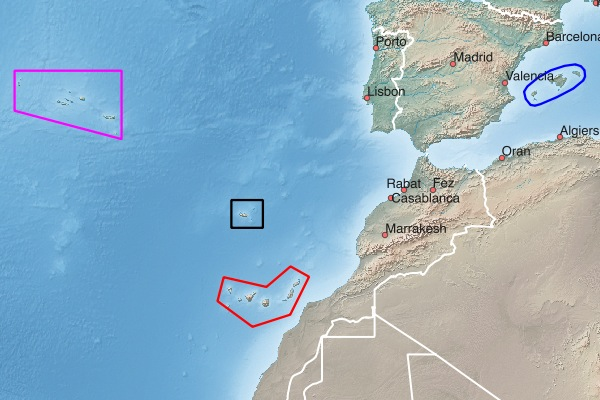
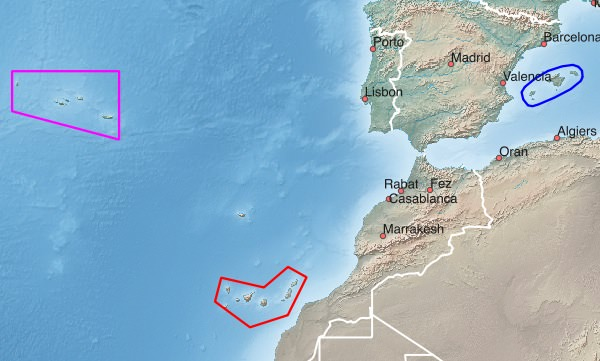
Android: Madeira ergänzt (reverted from commit 3f6e33d83fa2bf9889ab5e43a9afbc44942fff44)

diff --git a/android/en/sonstigelaender.html b/android/en/sonstigelaender.html
@@ -52,7 +52,6 @@
             <tr>
                <td style="text-align: center;"><a href="#BALEARICS-AZORES-CANARYISLANDS">Balearics</a></td>
                <td style="text-align: center;"><a href="#BALEARICS-AZORES-CANARYISLANDS">Azores</a></td>
-               <td style="text-align: center;"><a href="#BALEARICS-AZORES-CANARYISLANDS">Madeira</a></td>
             </tr>
             <tr>
                <td style="text-align: center;"><a href="#BALEARICS-AZORES-CANARYISLANDS">Canary Islands</a></td>
@@ -69,7 +68,7 @@
          <li>click on the OruxMaps Icon in the <strong>Android</strong> browser: the map will be downloaded into OruxMaps</li>
       </ul>
 
-      <h3><a name="BALEARICS-AZORES-CANARYISLANDS">Balearics, Azores, Madeira, Canary Islands:</a></h3>
+      <h3><a name="BALEARICS-AZORES-CANARYISLANDS">Balearics, Azores, Canary Islands:</a></h3>
       <p><img alt="" src="../images/balearics-azores-canaryislands.jpg" style="border-width: 1px; border-style: solid;" /></p>
 
       <table cellpadding="1" cellspacing="1" width="602">
@@ -96,20 +95,6 @@
                <td style="text-align: left;"><a href="http://download.freizeitkarte-osm.de/android/latest/freizeitkarte_azores.map.zip"><img alt="" src="../images/Devices-computer-laptop-icon.png" /></a></td>
                <td style="text-align: left;"><a href="locus-actions://http/download.freizeitkarte-osm.de/android/latest/locus_install_map_freizeitkarte_azores.xml"><img alt="" src="../images/web_logo_200x911.png" /></a></td>
                <td style="text-align: left;"><a href="orux-map://download.freizeitkarte-osm.de/android/latest/freizeitkarte_azores.map.zip"><img alt="" src="../images/oruxmap_icon_medium.png" /></a></td>
-            </tr>
-         </tbody>
-      </table>
-
-      <table cellpadding="1" cellspacing="1" width="602">
-         <tbody>
-            <tr>
-               <td style="width:25%; text-align: left; color:black; font-weight:bold;">Madeira<br />
-               <br />
-               MADEIRA<br />
-               2 MB</td>
-               <td style="text-align: left;"><a href="http://download.freizeitkarte-osm.de/android/latest/freizeitkarte_madeira.map.zip"><img alt="" src="../images/Devices-computer-laptop-icon.png" /></a></td>
-               <td style="text-align: left;"><a href="locus-actions://http/download.freizeitkarte-osm.de/android/latest/locus_install_map_freizeitkarte_madeira.xml"><img alt="" src="../images/web_logo_200x911.png" /></a></td>
-               <td style="text-align: left;"><a href="orux-map://download.freizeitkarte-osm.de/android/latest/freizeitkarte_madeira.map.zip"><img alt="" src="../images/oruxmap_icon_medium.png" /></a></td>
             </tr>
          </tbody>
       </table>

diff --git a/android/de/sonstigelaender.html b/android/de/sonstigelaender.html
@@ -52,7 +52,6 @@
             <tr>
                <td style="text-align: center;"><a href="#BALEARICS-AZORES-CANARYISLANDS">Balearen</a></td>
                <td style="text-align: center;"><a href="#BALEARICS-AZORES-CANARYISLANDS">Azoren</a></td>
-               <td style="text-align: center;"><a href="#BALEARICS-AZORES-CANARYISLANDS">Madeira</a></td>
             </tr>
             <tr>
                <td style="text-align: center;"><a href="#BALEARICS-AZORES-CANARYISLANDS">Kanarische Inseln</a></td>
@@ -69,7 +68,7 @@
          <li>Klick auf das OruxMaps Icon im <strong>Android</strong>-Browser: die Karte wird nach OruxMaps geladen</li>
       </ul>
 
-      <h3><a name="BALEARICS-AZORES-CANARYISLANDS">Balearen, Azoren, Madeira, Kanarische Inseln:</a></h3>
+      <h3><a name="BALEARICS-AZORES-CANARYISLANDS">Balearen, Azoren, Kanarische Inseln:</a></h3>
       <p><img alt="" src="../images/balearics-azores-canaryislands.jpg" style="border-width: 1px; border-style: solid;" /></p>
 
       <table cellpadding="1" cellspacing="1" width="602">
@@ -96,20 +95,6 @@
                <td style="text-align: left;"><a href="http://download.freizeitkarte-osm.de/android/latest/freizeitkarte_azores.map.zip"><img alt="" src="../images/Devices-computer-laptop-icon.png" /></a></td>
                <td style="text-align: left;"><a href="locus-actions://http/download.freizeitkarte-osm.de/android/latest/locus_install_map_freizeitkarte_azores.xml"><img alt="" src="../images/web_logo_200x911.png" /></a></td>
                <td style="text-align: left;"><a href="orux-map://download.freizeitkarte-osm.de/android/latest/freizeitkarte_azores.map.zip"><img alt="" src="../images/oruxmap_icon_medium.png" /></a></td>
-            </tr>
-         </tbody>
-      </table>
-
-      <table cellpadding="1" cellspacing="1" width="602">
-         <tbody>
-            <tr>
-               <td style="width:25%; text-align: left; color:black; font-weight:bold;">Madeira<br />
-               <br />
-               MADEIRA<br />
-               2 MB</td>
-               <td style="text-align: left;"><a href="http://download.freizeitkarte-osm.de/android/latest/freizeitkarte_madeira.map.zip"><img alt="" src="../images/Devices-computer-laptop-icon.png" /></a></td>
-               <td style="text-align: left;"><a href="locus-actions://http/download.freizeitkarte-osm.de/android/latest/locus_install_map_freizeitkarte_madeira.xml"><img alt="" src="../images/web_logo_200x911.png" /></a></td>
-               <td style="text-align: left;"><a href="orux-map://download.freizeitkarte-osm.de/android/latest/freizeitkarte_madeira.map.zip"><img alt="" src="../images/oruxmap_icon_medium.png" /></a></td>
             </tr>
          </tbody>
       </table>
